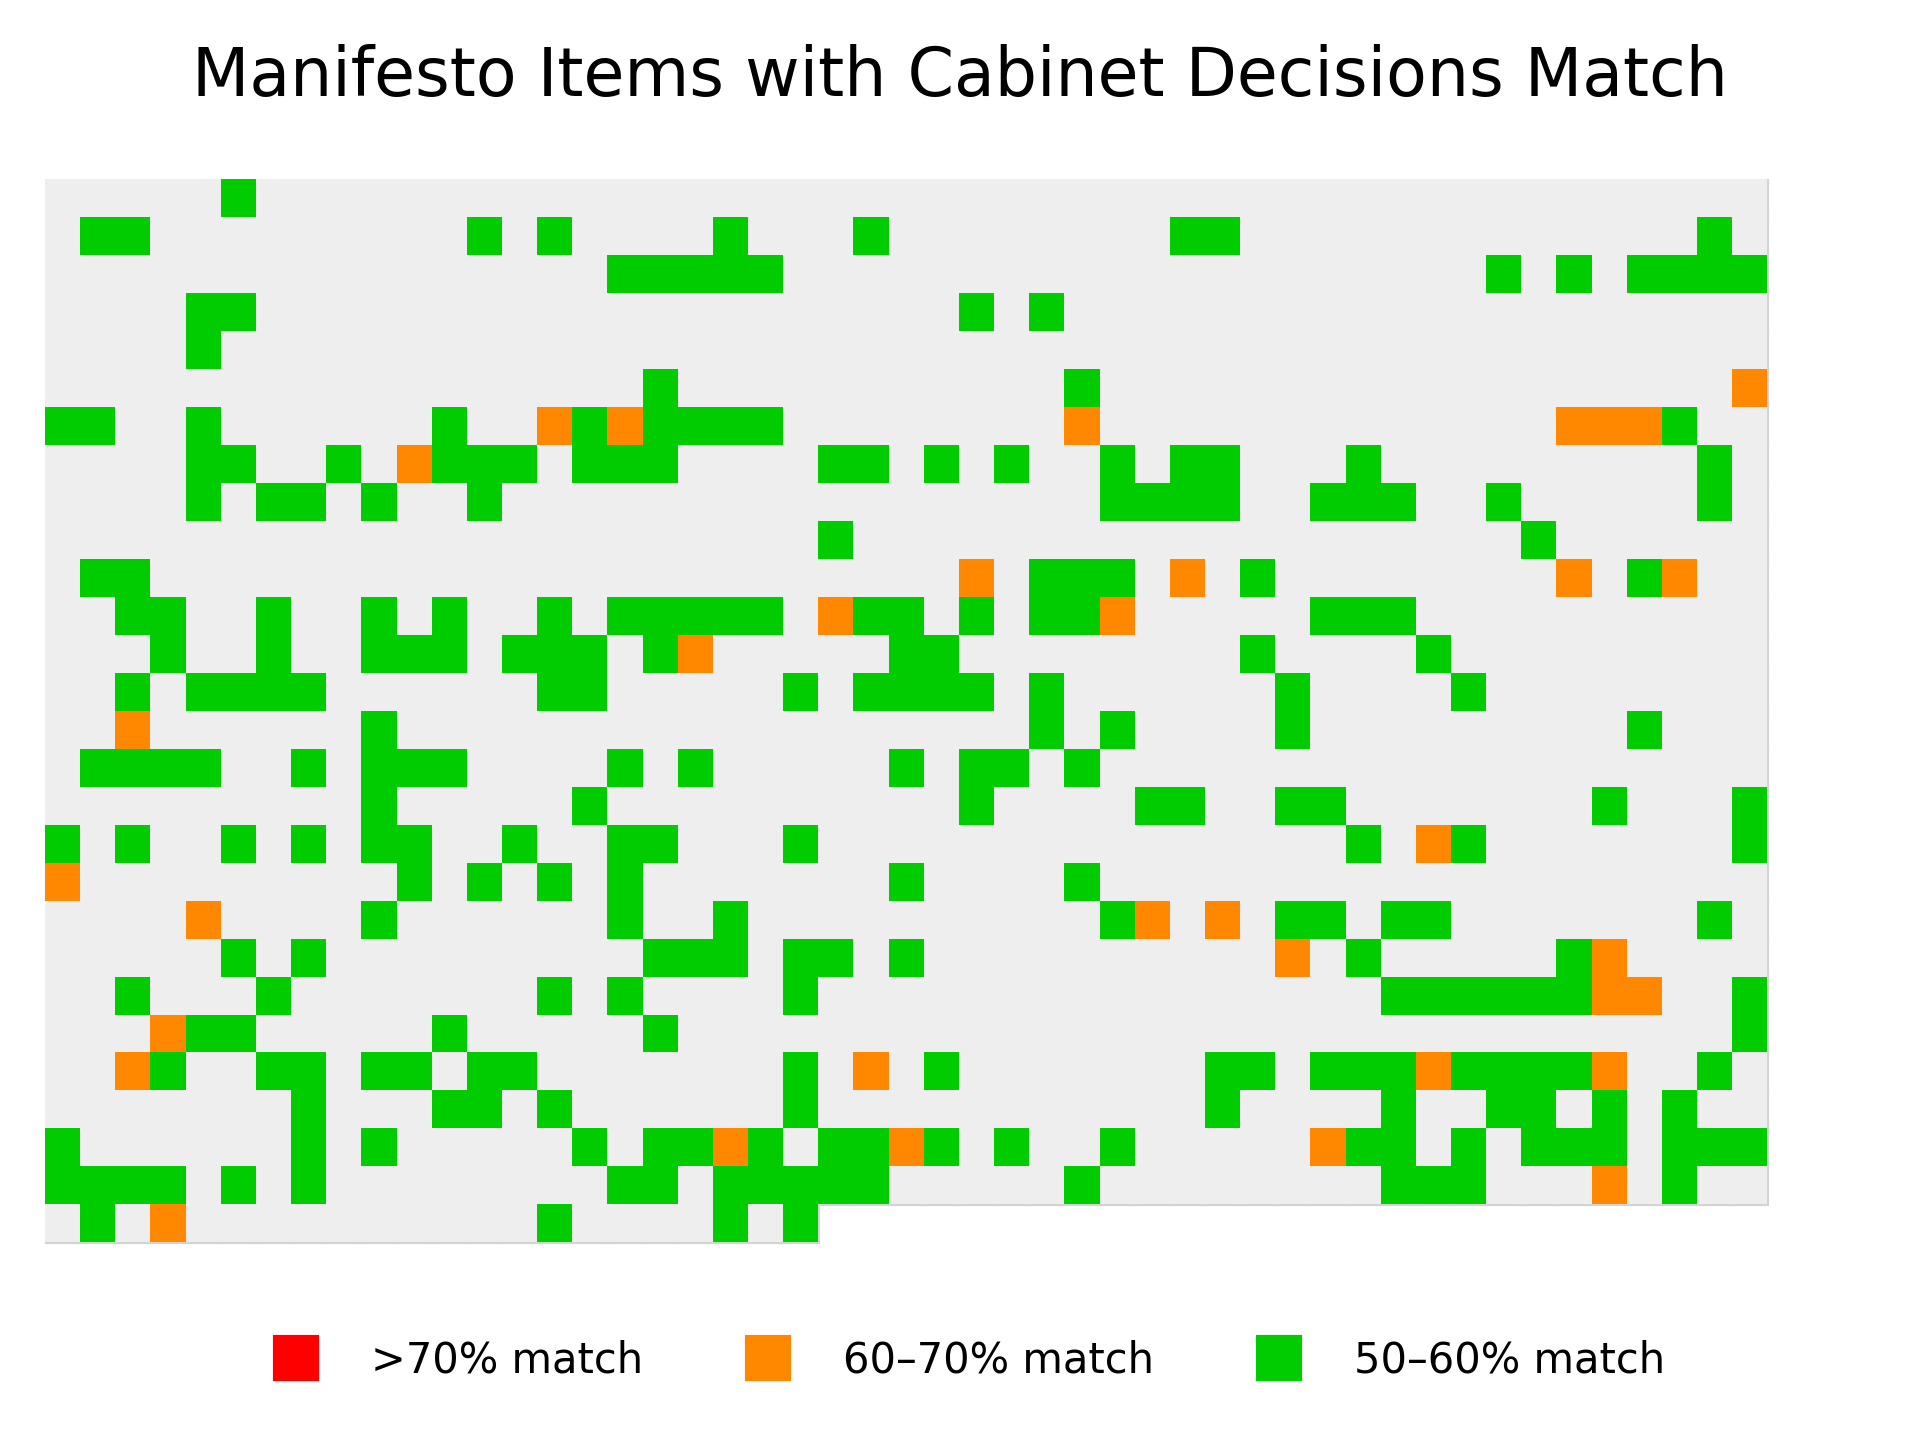
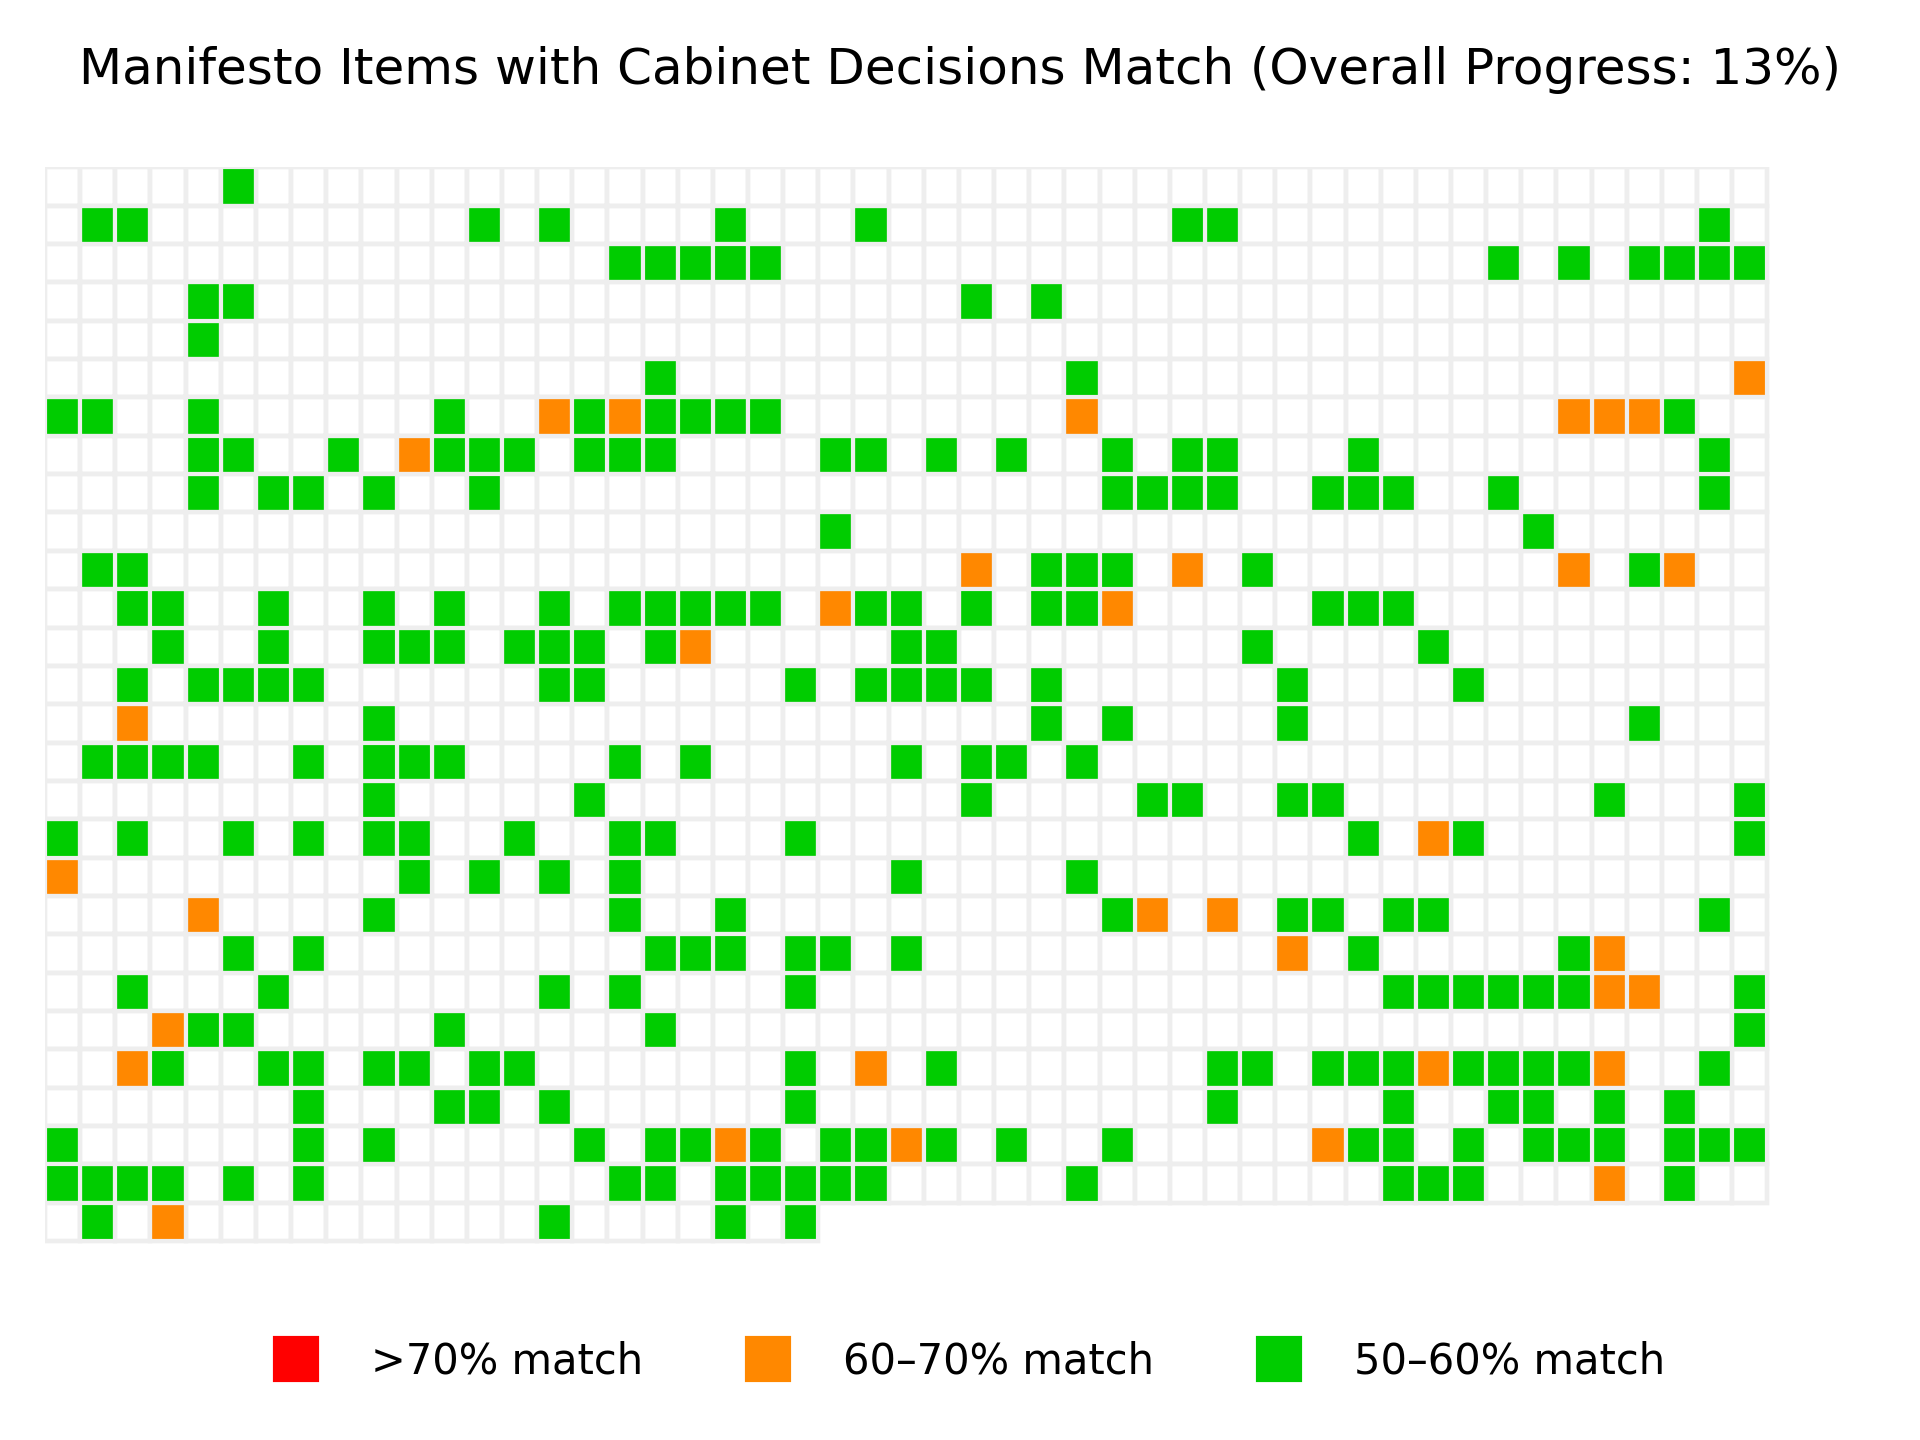
Add overall score

diff --git a/src/mm/monitoring/charts/HeatMap.py b/src/mm/monitoring/charts/HeatMap.py
@@ -16,6 +16,7 @@ class HeatMap:
     def __init__(self):
         self.compare_manifesto = CompareManifesto()
         self.n_manifesto_items = self.compare_manifesto.n_manifesto_items
+        self.overall_progress = self.compare_manifesto.overall_progress
 
         self.n_x = (
             int((HeatMap.ASPECT_RATIO * self.n_manifesto_items) ** 0.5) + 1
@@ -33,7 +34,7 @@ class HeatMap:
             return "#f80"
         if similarity > 0.5:
             return "#0c0"
-        return "#eee"
+        return "#fff2"
 
     def draw_base_grid(self):
 
@@ -67,7 +68,7 @@ class HeatMap:
                 (i_display * self.x_dim, j_display * self.y_dim),
                 self.x_dim,
                 self.y_dim,
-                edgecolor="none",
+                edgecolor="#eee",
                 facecolor=color,
             )
             ax.add_patch(square)
@@ -114,8 +115,9 @@ class HeatMap:
         plt.gca().invert_yaxis()
         plt.axis("off")
         plt.title(
-            "Manifesto Items with Cabinet Decisions Match",
-            fontsize=16,
+            "Manifesto Items with Cabinet Decisions Match"
+            + f" (Overall Progress: {self.overall_progress:.0%})",
+            fontsize=12,
             pad=20,
         )
         plt.tight_layout()

diff --git a/src/mm/monitoring/CompareManifesto.py b/src/mm/monitoring/CompareManifesto.py
@@ -133,3 +133,16 @@ class CompareManifesto:
         data_list.sort(key=lambda x: x["similarity"], reverse=True)
         log.info(f"Found {len(data_list)} similarity data items")
         return data_list
+
+    @cached_property
+    def overall_progress(self):
+        n = len(self.similarity_data_list)
+        total_similarity = sum(
+            [
+                x["similarity"]
+                for x in self.similarity_data_list
+                if x["similarity"] > 0.5
+            ]
+        )
+
+        return total_similarity / n
